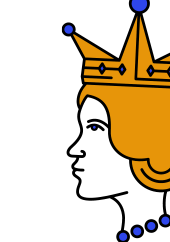
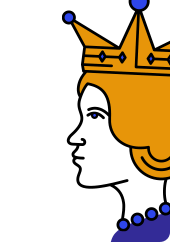
updated king and queen graphics

Changed region(s): [[0.3529, 0.0, 1.0, 1.0]]

diff --git a/build/static/css/main.45a78bff.css b/build/static/css/main.45a78bff.css
@@ -1,0 +1,2 @@
[1 lines of base64/hex data omitted]
+/*# sourceMappingURL=main.45a78bff.css.map*/

diff --git a/build/index.html b/build/index.html
@@ -1,1 +1,1 @@
-<!doctype html><html lang="en"><head><meta charset="utf-8"/><meta name="viewport" content="width=device-width,initial-scale=1"/><meta name="description" content="Practice your Blackjack skills here."/><link rel="apple-touch-icon" sizes="180x180" href="/blackjack/apple-touch-icon.png"><link rel="icon" type="image/png" sizes="32x32" href="/blackjack/favicon-32x32.png"><link rel="icon" type="image/png" sizes="16x16" href="/blackjack/favicon-16x16.png"><link rel="manifest" href="/blackjack/site.webmanifest"><link rel="mask-icon" href="/blackjack/safari-pinned-tab.svg" color="#0c5c11"><meta name="msapplication-TileColor" content="#00a300"><meta name="theme-color" content="#ffffff"><link rel="preconnect" href="https://fonts.googleapis.com"><link rel="preconnect" href="https://fonts.gstatic.com" crossorigin><link href="https://fonts.googleapis.com/css2?family=Oswald:wght@300;600&display=swap" rel="stylesheet"><meta property="og:title" content="Play Blackjack!"/><meta property="og:image" content="/blackjack/share.jpg"/><title>Play Blackjack!</title><script defer="defer" src="/blackjack/static/js/main.d9e8f2bc.js"></script><link href="/blackjack/static/css/main.84d963f2.css" rel="stylesheet"></head><body><noscript>You need to enable JavaScript to run this app.</noscript><div id="root"></div></body></html>
+<!doctype html><html lang="en"><head><meta charset="utf-8"/><meta name="viewport" content="width=device-width,initial-scale=1"/><meta name="description" content="Practice your Blackjack skills here."/><link rel="apple-touch-icon" sizes="180x180" href="/blackjack/apple-touch-icon.png"><link rel="icon" type="image/png" sizes="32x32" href="/blackjack/favicon-32x32.png"><link rel="icon" type="image/png" sizes="16x16" href="/blackjack/favicon-16x16.png"><link rel="manifest" href="/blackjack/site.webmanifest"><link rel="mask-icon" href="/blackjack/safari-pinned-tab.svg" color="#0c5c11"><meta name="msapplication-TileColor" content="#00a300"><meta name="theme-color" content="#ffffff"><link rel="preconnect" href="https://fonts.googleapis.com"><link rel="preconnect" href="https://fonts.gstatic.com" crossorigin><link href="https://fonts.googleapis.com/css2?family=Oswald:wght@300;600&display=swap" rel="stylesheet"><meta property="og:title" content="Play Blackjack!"/><meta property="og:image" content="/blackjack/share.jpg"/><title>Play Blackjack!</title><script defer="defer" src="/blackjack/static/js/main.d9e8f2bc.js"></script><link href="/blackjack/static/css/main.45a78bff.css" rel="stylesheet"></head><body><noscript>You need to enable JavaScript to run this app.</noscript><div id="root"></div></body></html>
